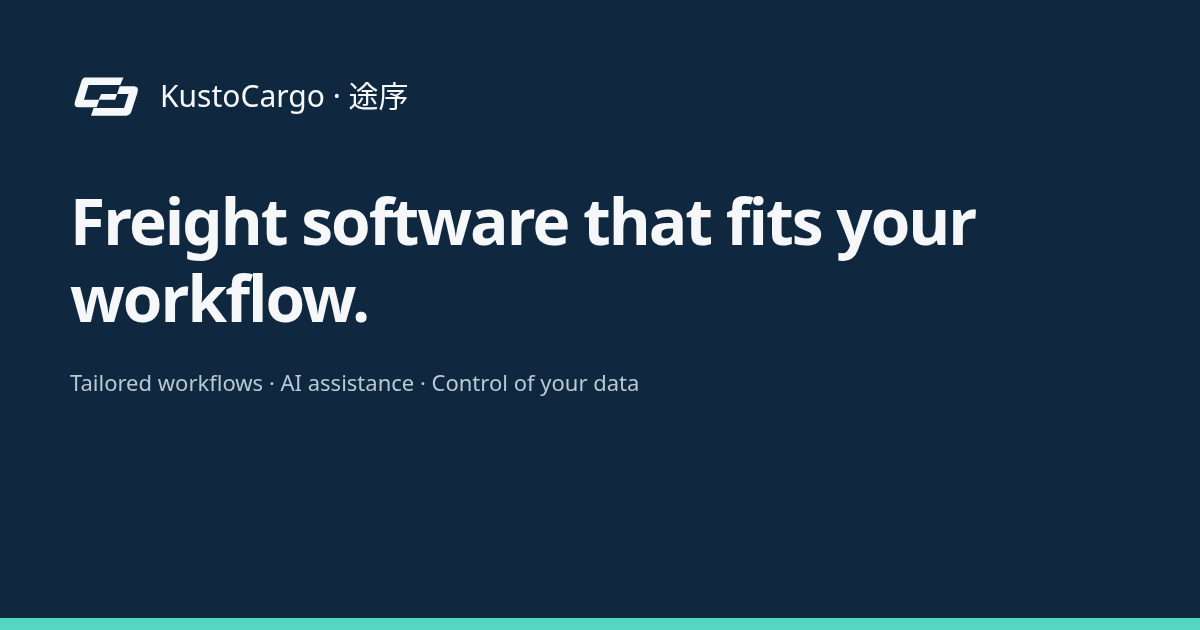
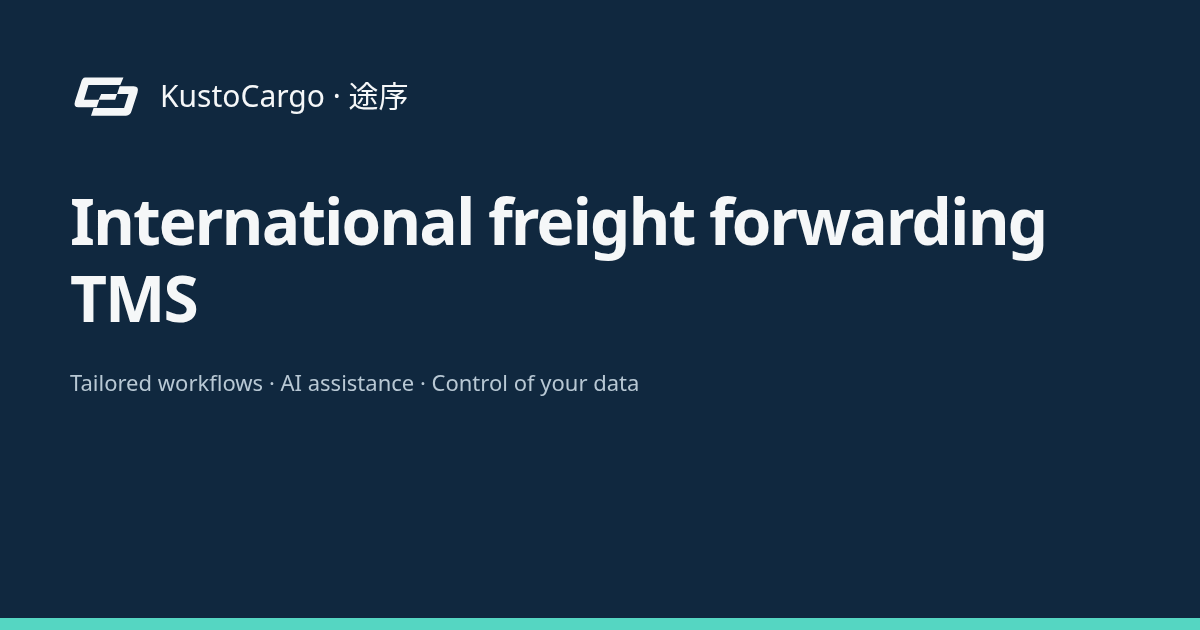
Clarify international freight forwarding TMS positioning

Changed region(s): [[0.0617, 0.3016, 0.8942, 0.5127]]

diff --git a/src/content/en.ts b/src/content/en.ts
@@ -39,8 +39,8 @@ export const enUI = {
   nav: ["Capabilities", "AI assistant", "Tracking", "Get in touch"],
   hero: {
     eyebrow: "Built for small freight teams",
-    title: "Freight software that fits your workflow.",
-    body: "Connect bookings, documents, shipments and costs. Start with a standard version, tailor it to your operations, and bring AI into everyday work.",
+    title: "International freight forwarding TMS",
+    body: "Start with a standard TMS. Our team tailors it to your workflows, connecting bookings, documents, shipments and costs with AI assistance.",
     demo: "Request a demo",
     trial: "Request trial access",
     scroll: "Follow a shipment. Discover KustoCargo.",

diff --git a/src/content/zh.ts b/src/content/zh.ts
@@ -39,8 +39,8 @@ export const zhUI = {
   nav: ["业务能力", "AI 助手", "货物追踪", "联系体验"],
   hero: {
     eyebrow: "为小微货代而设计",
-    title: "让系统适应你的货代业务。",
-    body: "连接订单、单据、运输与费用。从标准版本开始，按你的实际流程定制，让 AI 融入日常工作。",
+    title: "国际货代 TMS 系统",
+    body: "以标准版本为起点，由我们的团队按你的业务流程定制，连接订单、单据、运输与费用，让 AI 融入日常工作。",
     demo: "预约演示",
     trial: "申请试用",
     scroll: "跟随一票货，了解途序",

diff --git a/.github/prompt/kusto-cargo/PROGRESS.md b/.github/prompt/kusto-cargo/PROGRESS.md
@@ -54,6 +54,8 @@
 | 2026-11-16 | 02.4–12.4 | 从指定远端HEAD连续实现双语页面、航线、功能、表单、SEO与Workers本地准备；29单测/21浏览器测试通过，逐步视觉证据已查看 | 13.1 用户手动发布 |
 | 2026-11-17 | 页脚与收录补充 | 补版权行、页脚导航、双语 sitemap 关联；中英文视觉及构建验证通过 | 填正式域名后复核并提交 sitemap |
 
+| 2026-11-17 | 首屏定位调整 | 主标题突出国际货代 TMS 系统，同步英文、页面 title、分享图和规格；检查、构建与四种视口视觉验证通过 | 13.1 用户手动发布 |
+
 ## 交接记录
 
 - 已从远端main指定HEAD `bce468b53fca8c6ea5d907b3f117241b5fb8dcdf` 快进恢复；完成本地阶段02.4–12，未修改其他仓库。
@@ -61,3 +63,5 @@
 - 固定依赖与lockfile已更新；使用README中的工具路径与开发/检查命令恢复。
 - 正式发布仍停在13.1，由用户手动操作；本次用户授权提交推送；无Cloudflare账户连接/版本上传/激活。
 - 逐步截图保留历史状态；最终截图以12.4与final前缀为准。小字对比度与菜单CLS已修复，细节见QA记录。
+
+- 用户要求后续每次改动创建新的 commit；不 amend 已有提交。本次沿用已授权的 main 推送流程。

diff --git a/docs/implementation/visual-review.md b/docs/implementation/visual-review.md
@@ -52,3 +52,5 @@
 表单状态补验：`11-remote-422.png` 与 `11-remote-success.png` 来自隔离测试构建的真实Chromium截图，已实际查看。422时错误位于邮箱下方且焦点环清楚，原输入保留；有效成功显示本地化状态并清理字段。两项定向复测均通过（4.2s），无真实出站提交。
 
 2026-11-17 页脚补充：`visual/footer-2026-{zh,en}-{desktop,mobile}.png` 来自更新后的静态构建，已实际打开四张截图；版权行与联系/返回顶部链接在两种语言和宽度下完整显示，无横向溢出。浏览器实点两种链接，hash 分别到 `#contact`、`#journey`，通过。与此相关的构建另验证正式 sitemap 的双语 `xhtml:link`，以及 404 `noindex`。
+
+2026-11-17 首屏定位：已实际查看 `visual/hero-tms-{zh,en}-{desktop,mobile}.png` 的四图拼图，以及重新生成的中英文分享图。中文主标题直接显示“国际货代 TMS 系统”；英文桌面三行、手机两行，正文和按钮正常排列，无裁切或横向溢出。分享图标题完整。

diff --git a/.github/prompt/kusto-cargo/specs/01-product-content.md b/.github/prompt/kusto-cargo/specs/01-product-content.md
@@ -36,8 +36,8 @@
 | 项目 | 中文 | English |
 | --- | --- | --- |
 | 眉题 | 为小微货代而设计 | Built for small freight teams |
-| H1 | 让系统适应你的货代业务。 | Freight software that fits your workflow. |
-| 说明 | 连接订单、单据、运输与费用。从标准版本开始，按你的实际流程定制，让 AI 融入日常工作。 | Connect bookings, documents, shipments and costs. Start with a standard version, tailor it to your operations, and bring AI into everyday work. |
+| H1 | 国际货代 TMS 系统 | International freight forwarding TMS |
+| 说明 | 以标准版本为起点，由我们的团队按你的业务流程定制，连接订单、单据、运输与费用，让 AI 融入日常工作。 | Start with a standard TMS. Our team tailors it to your workflows, connecting bookings, documents, shipments and costs with AI assistance. |
 | 主 CTA | 预约演示 | Request a demo |
 | 次 CTA | 申请试用 | Request trial access |
 | 滚动提示 | 跟随一票货，了解途序 | Follow a shipment. Discover KustoCargo. |
